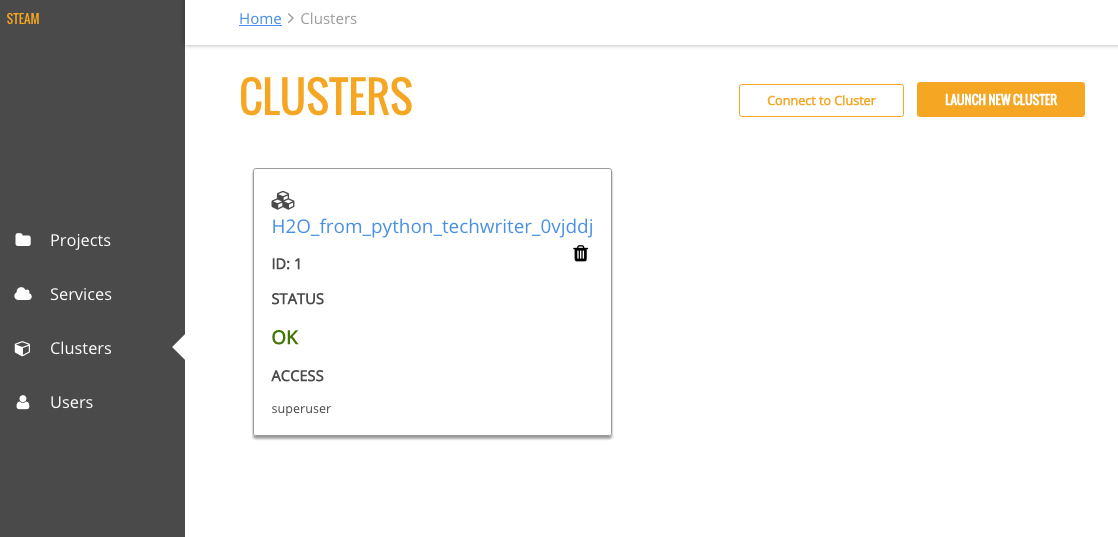
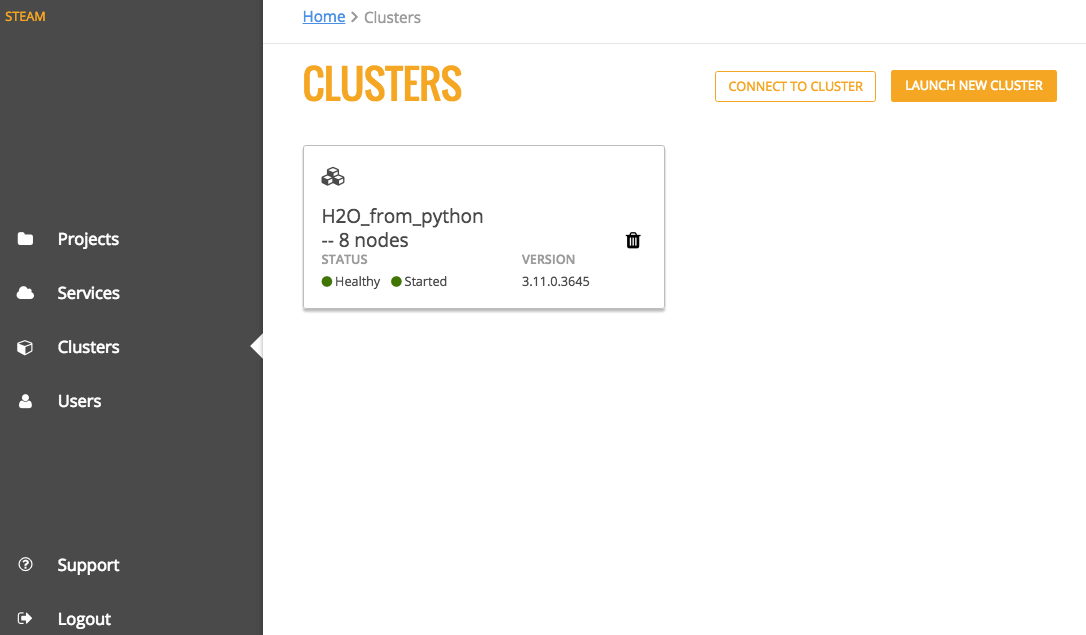
Updates for version 1.1.1
- Updated the Clusters page with a new screenshot and text indicating
the new items that show up on the page.
- In Using Steam with Flow, updated text to say that users should
select the cluster name rather than the cluster link (since it’s not
apparent that the cluster name is a link).
- Updated the version number in conf.py
- Updated release notes.

diff --git a/docs/conf.py b/docs/conf.py
@@ -63,7 +63,7 @@ author = u'h2o'
 # built documents.
 #
 # The short X.Y version.
-version = "Steam 1.1.0"
+version = "Steam 1.1.1"
 
 # This commented out code is how the version is displayed in H2O.
 #if os.path.exists("project_version"):

diff --git a/ReleaseNotes.md b/ReleaseNotes.md
@@ -10,15 +10,15 @@ If you're an Open Source community member, you can contact H2O using one of the 
 - Send an e-mail message directly to <a href="mailto:support@h2o.ai">support@h2o.ai</a>
 - Ask your question on the [H2O Community](https://community.h2o.ai/spaces/540/index.html) site (create an account if necessary)
 
+## v1.1.1 Changes
+
+- [STEAM-517] The cluster URL to H2O Flow now works correctly.
+- [N/A] - The **Clusters** page now shows the number of nodes on the cluster, the version of H2O that is running on the cluster, and the cluster health state.  
+
 ## v1.1.0 Changes
 
 - [STEAM-450] Projects can be deleted through the UI. Note that only projects without models can be deleted.
 - [STEAM-507] Models can now be deleted through the UI.
 - [STEAM-518] Models can be downloaded as MOJOs.
 
-## Known Issues
-
-Please keep the following issues in mind when using Steam.
-
-- [STEAM-517] The cluster URL to H2O Flow does not currently work.
 

diff --git a/docs/Clusters.rst b/docs/Clusters.rst
@@ -1,7 +1,7 @@
 Clusters
 ========
 
-The **Clusters** page shows all H2O clusters that Steam is connected to along with the status of the cluster. From this page, you can click the link to access H2O Flow (see next section), launch a new cluster, or delete a cluster.
+The **Clusters** page shows all H2O clusters that Steam is connected to along with the status of the cluster, the number of nodes available on the cluster, and the version of H2O currently running on the cluster. From this page, you can click the cluster name to access H2O Flow (see `Using Steam with H2O Flow <UseSteamWithFlow.html>`__), launch a new cluster, or delete a cluster.
 
 .. figure:: images/cluster_page.png
    :alt: Steam Clusters page

diff --git a/docs/UseSteamWithFlow.rst b/docs/UseSteamWithFlow.rst
@@ -3,7 +3,7 @@ Using Steam with H2O Flow
 
 As with other H2O products, Flow can be used alongside Steam when
 performing machine learning tasks. On the **Clusters** page, click the
-link for the H2O cluster that you want to open.
+cluster name of the H2O cluster that you want to open.
 
 This opens H2O Flow in a new tab.
 
